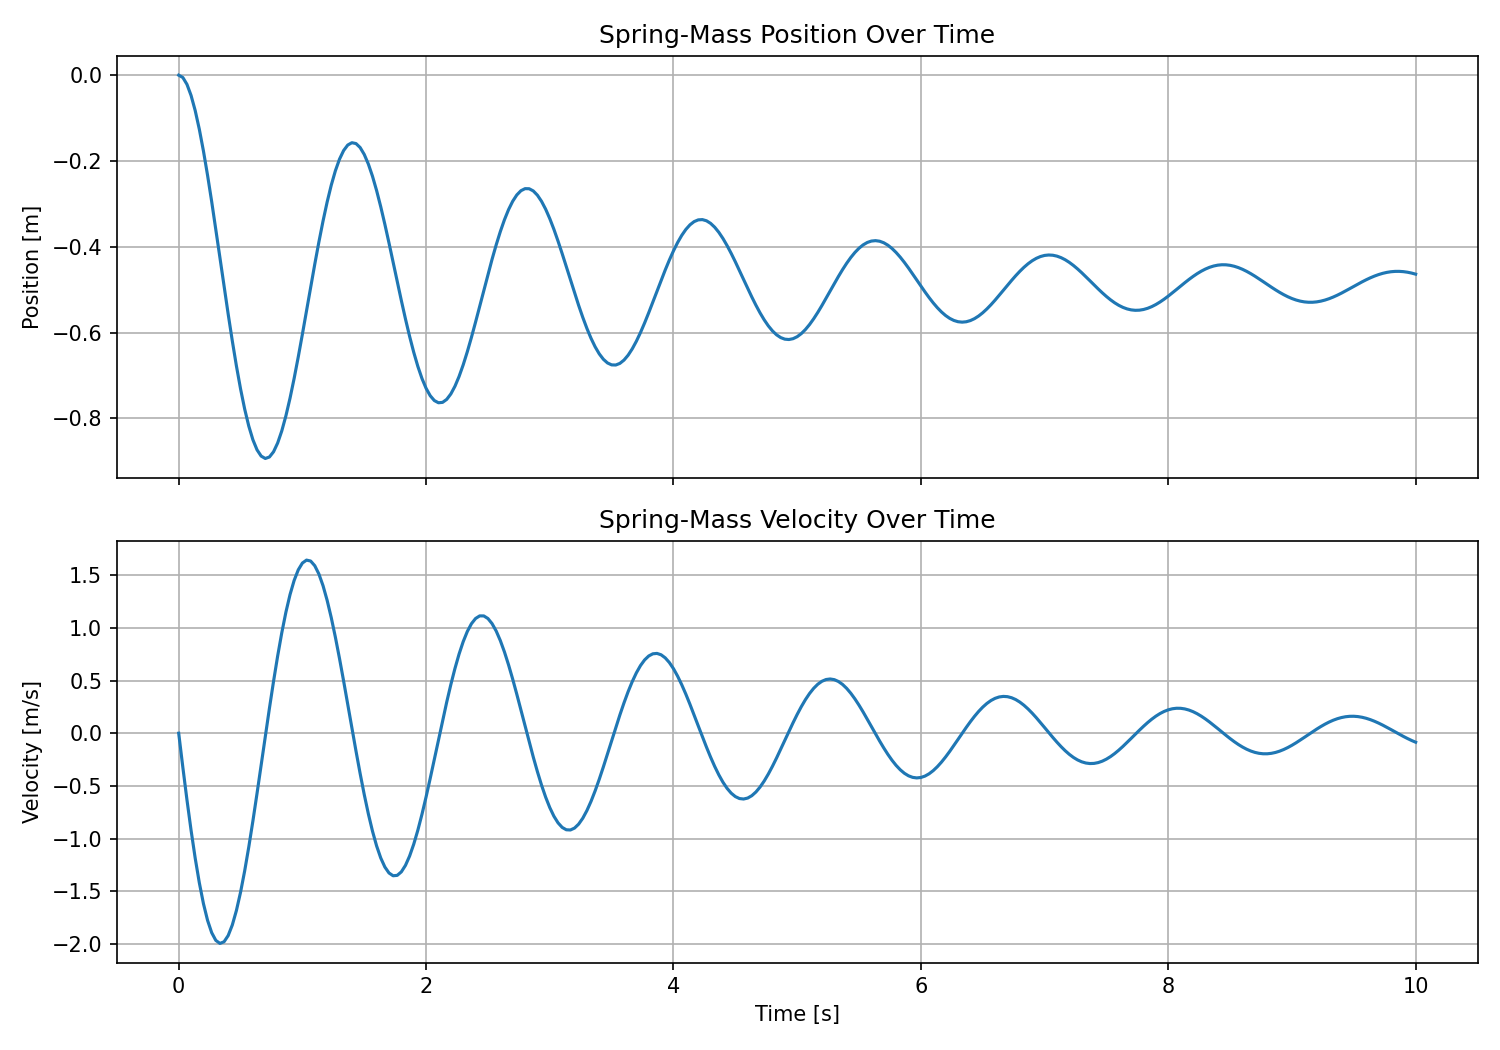
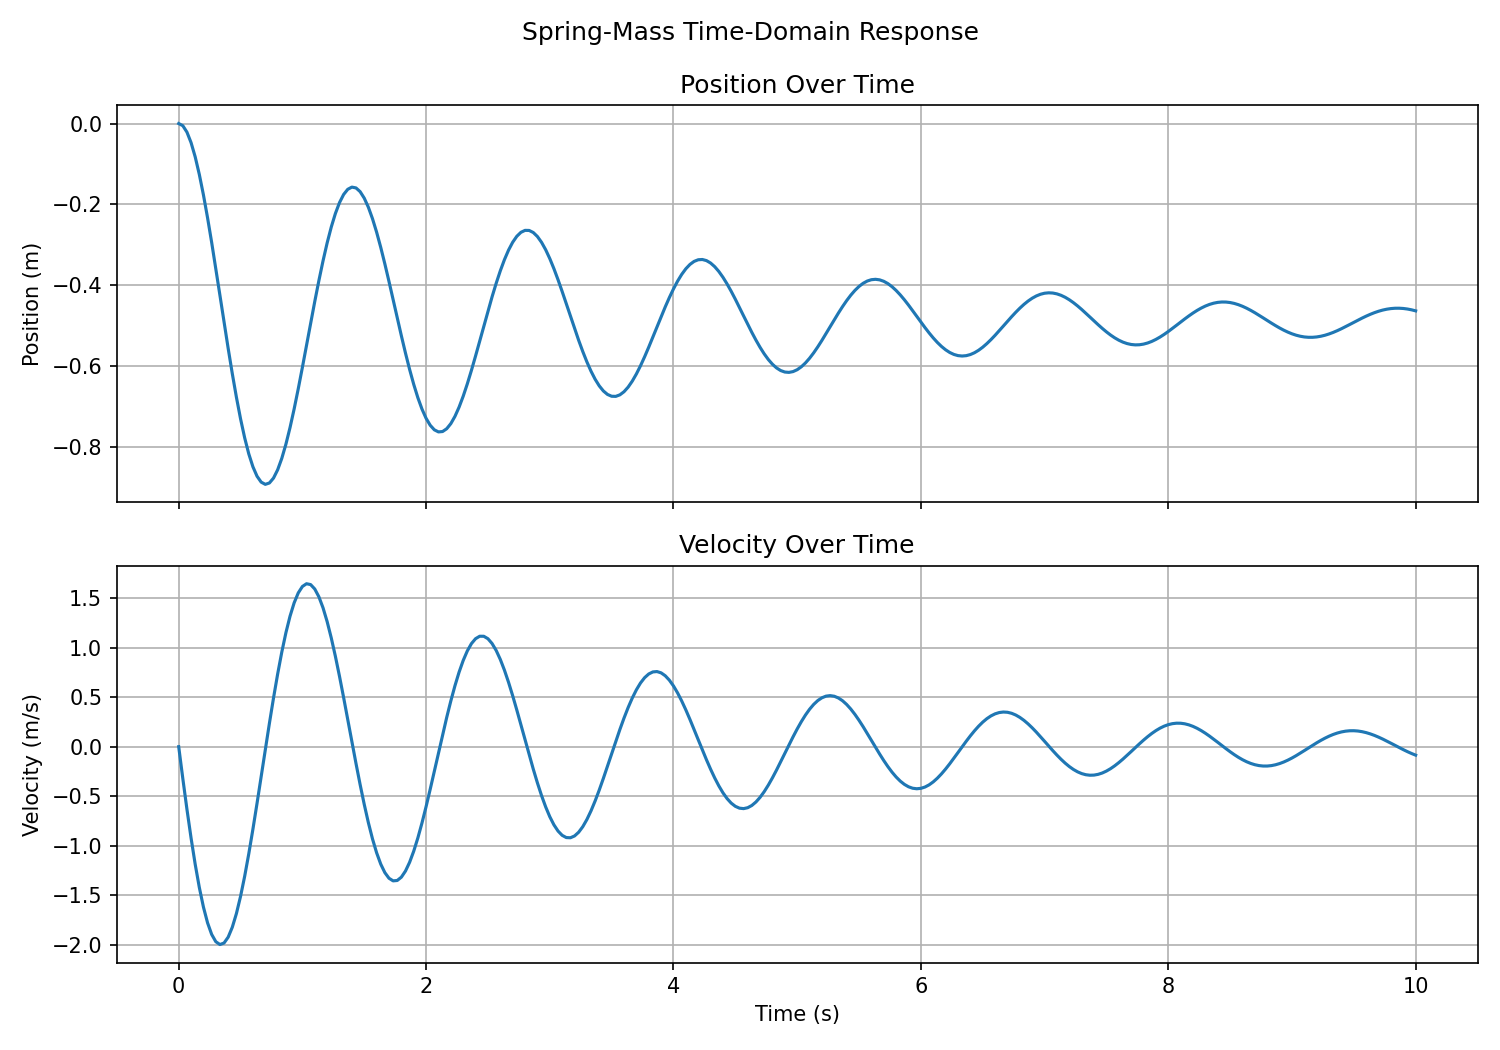
Add spring-mass animation

diff --git a/src/simulations/visualisations/spring_mass.py b/src/simulations/visualisations/spring_mass.py
@@ -1,4 +1,5 @@
-from pathlib import Path 
+from pathlib import Path
+from matplotlib.animation import FuncAnimation, PillowWriter
 from typing import Any
 
 import matplotlib.pyplot as plt
@@ -6,64 +7,60 @@ import numpy as np
 
 from simulations.systems.spring_mass import SpringMassSystem
 
-def _extract_solution_data(solution: Any) -> tuple[np.ndarray, np.ndarray, np.ndarray]:
-    """Extract time, position, and velocity arrays from a SciPy solve_ivp result."""
 
+def _extract_solution_data(solution: Any) -> tuple[np.ndarray, np.ndarray, np.ndarray]:
     if not solution.success:
         raise ValueError(f"Cannot plot failed simulation: {solution.message}")
-    
+
     if solution.y.shape[0] < 2:
         raise ValueError("Expected solution.y to contain position and velocity rows.")
-    
-    time = solution.t
-    position = solution.y[0]
-    velocity = solution.y[1]
 
-    return time, position, velocity
+    return solution.t, solution.y[0], solution.y[1]
 
-def plot_time_domain(solution: Any, output_path: str | Path) -> Path:
-    """Plot position and velocity against time."""
 
-    time, position, velocity = _extract_solution_data(solution)
-
+def _prepare_output_path(output_path: str | Path) -> Path:
     output_path = Path(output_path)
     output_path.parent.mkdir(parents=True, exist_ok=True)
+    return output_path
 
-    fig, axes = plt.subplots(2, 1, figsize=(10,7), sharex=True)
+
+def plot_spring_mass_time_domain(solution: Any, output_path: str | Path) -> Path:
+    time, position, velocity = _extract_solution_data(solution)
+    output_path = _prepare_output_path(output_path)
+
+    fig, axes = plt.subplots(2, 1, figsize=(10, 7), sharex=True)
 
     axes[0].plot(time, position)
-    axes[0].set_ylabel("Position [m]")
-    axes[0].set_title("Spring-Mass Position Over Time")
+    axes[0].set_ylabel("Position (m)")
+    axes[0].set_title("Position Over Time")
     axes[0].grid(True)
 
     axes[1].plot(time, velocity)
-    axes[1].set_xlabel("Time [s]")
-    axes[1].set_ylabel("Velocity [m/s]")
-    axes[1].set_title("Spring-Mass Velocity Over Time")
+    axes[1].set_xlabel("Time (s)")
+    axes[1].set_ylabel("Velocity (m/s)")
+    axes[1].set_title("Velocity Over Time")
     axes[1].grid(True)
 
+    fig.suptitle("Spring-Mass Time-Domain Response")
     fig.tight_layout()
     fig.savefig(output_path, dpi=150)
     plt.close(fig)
 
     return output_path
 
-def plot_phase_space(solution: Any, output_path: str | Path) -> Path:
-    """Plot the phase-space curve: position vs velocity."""
 
+def plot_spring_mass_phase_space(solution: Any, output_path: str | Path) -> Path:
     _time, position, velocity = _extract_solution_data(solution)
+    output_path = _prepare_output_path(output_path)
 
-    output_path = Path(output_path)
-    output_path.parent.mkdir(parents=True, exist_ok=True)
-
-    fig, ax = plt.subplots(figsize=(8,6))
+    fig, ax = plt.subplots(figsize=(8, 6))
 
     ax.plot(position, velocity)
     ax.scatter(position[0], velocity[0], label="Start")
     ax.scatter(position[-1], velocity[-1], label="End")
 
-    ax.set_xlabel("Position [m]")
-    ax.set_ylabel("Velocity [m/s]")
+    ax.set_xlabel("Position (m)")
+    ax.set_ylabel("Velocity (m/s)")
     ax.set_title("Spring-Mass Phase Space")
     ax.grid(True)
     ax.legend()
@@ -74,32 +71,29 @@ def plot_phase_space(solution: Any, output_path: str | Path) -> Path:
 
     return output_path
 
-def plot_energy(
-        system: SpringMassSystem,
-        solution: Any,
-        output_path: str | Path
-    ) -> Path:
-    """Plot kinetic, potential, and total energy over time."""
 
+def plot_spring_mass_energy(
+    system: SpringMassSystem,
+    solution: Any,
+    output_path: str | Path,
+) -> Path:
     time, position, velocity = _extract_solution_data(solution)
+    output_path = _prepare_output_path(output_path)
 
     kinetic_energy = system.kinetic_energy(velocity)
     spring_potential_energy = system.spring_potential_energy(position)
     gravitational_potential_energy = system.gravitational_potential_energy(position)
     total_energy = system.total_energy(position, velocity)
 
-    output_path = Path(output_path)
-    output_path.parent.mkdir(parents=True, exist_ok=True)
+    fig, ax = plt.subplots(figsize=(10, 6))
 
-    fig, ax = plt.subplots(figsize=(10,6))
+    ax.plot(time, kinetic_energy, label="Kinetic energy")
+    ax.plot(time, spring_potential_energy, label="Spring potential energy")
+    ax.plot(time, gravitational_potential_energy, label="Gravitational potential energy")
+    ax.plot(time, total_energy, label="Total energy")
 
-    ax.plot(time, kinetic_energy, label = "Kinetic energy")
-    ax.plot(time, spring_potential_energy, label = "Spring potential energy")
-    ax.plot(time, gravitational_potential_energy, label = "Gravitational potential energy")
-    ax.plot(time, total_energy, label = "Total energy")
-
-    ax.set_xlabel("Time [s]")
-    ax.set_ylabel("Energy [J]")
+    ax.set_xlabel("Time (s)")
+    ax.set_ylabel("Energy (J)")
     ax.set_title("Spring-Mass Energy Over Time")
     ax.grid(True)
     ax.legend()
@@ -110,17 +104,82 @@ def plot_energy(
 
     return output_path
 
+
 def create_spring_mass_visualisations(
-        system: SpringMassSystem,
-        solution: Any,
-        output_dir: str | Path = "assets",
+    system: SpringMassSystem,
+    solution: Any,
+    output_dir: str | Path = "assets/spring_mass",
+    include_animation: bool = True,
 ) -> list[Path]:
     """Create all current spring-mass visualisations."""
 
     output_dir = Path(output_dir)
 
-    return [
-        plot_time_domain(solution, output_dir / "time_domain.png"),
-        plot_phase_space(solution, output_dir / "phase_space.png"), 
-        plot_energy(system, solution, output_dir / "energy.png"),
+    output_paths = [
+        plot_spring_mass_time_domain(solution, output_dir / "time_domain.png"),
+        plot_spring_mass_phase_space(solution, output_dir / "phase_space.png"),
+        plot_spring_mass_energy(system, solution, output_dir / "energy.png"),
     ]
+
+    if include_animation:
+        output_paths.append(
+            animate_spring_mass(solution, output_dir / "animation.gif")
+        )
+    
+    return output_paths
+
+def animate_spring_mass(
+        solution: Any,
+        output_path: str | Path,
+        fps: int = 30,
+) -> Path:
+    """Create a GIF animation of the spring-mass motion."""
+
+    time, position, _velocity = _extract_solution_data(solution)
+    output_path = _prepare_output_path(output_path)
+
+    min_position = float(position.min())
+    max_position = float(position.max())
+    padding = 0.2 * max(abs(min_position), abs(max_position), 1.0)
+
+    fig, ax = plt.subplots(figsize = (5, 7))
+
+    ax.set_xlim(-1.0, 1.0)
+    ax.set_ylim(min_position - padding, max_position + padding)
+    ax.set_xlabel("Horizontal position")
+    ax.set_ylabel("Vertical displacement [m]")
+    ax.set_title("Spring-Mass Oscillator")
+    ax.grid(True)
+
+    ceiling_y = max_position + padding * 0.5
+    mass_marker, = ax.plot([], [], marker="o", markersize=10, zorder=2.5)
+    spring_line, = ax.plot([], [], linewidth=2, color = 'red')
+    time_text = ax.text(
+        0.05,
+        0.95,
+        "",
+        transform=ax.transAxes,
+        va="top",
+    )
+
+    def update(frame: int):
+        y = position[frame]
+
+        spring_line.set_data([0.0, 0.0], [ceiling_y, y])
+        mass_marker.set_data([0.0], [y])
+        time_text.set_text(f"t = {time[frame]:.2f} s")
+
+        return spring_line, mass_marker, time_text
+    
+    animation = FuncAnimation(
+        fig, 
+        update,
+        frames=len(time),
+        interval=1000 / fps,
+        blit=True,
+    )
+
+    animation.save(output_path, writer=PillowWriter(fps=fps))
+    plt.close(fig)
+
+    return output_path